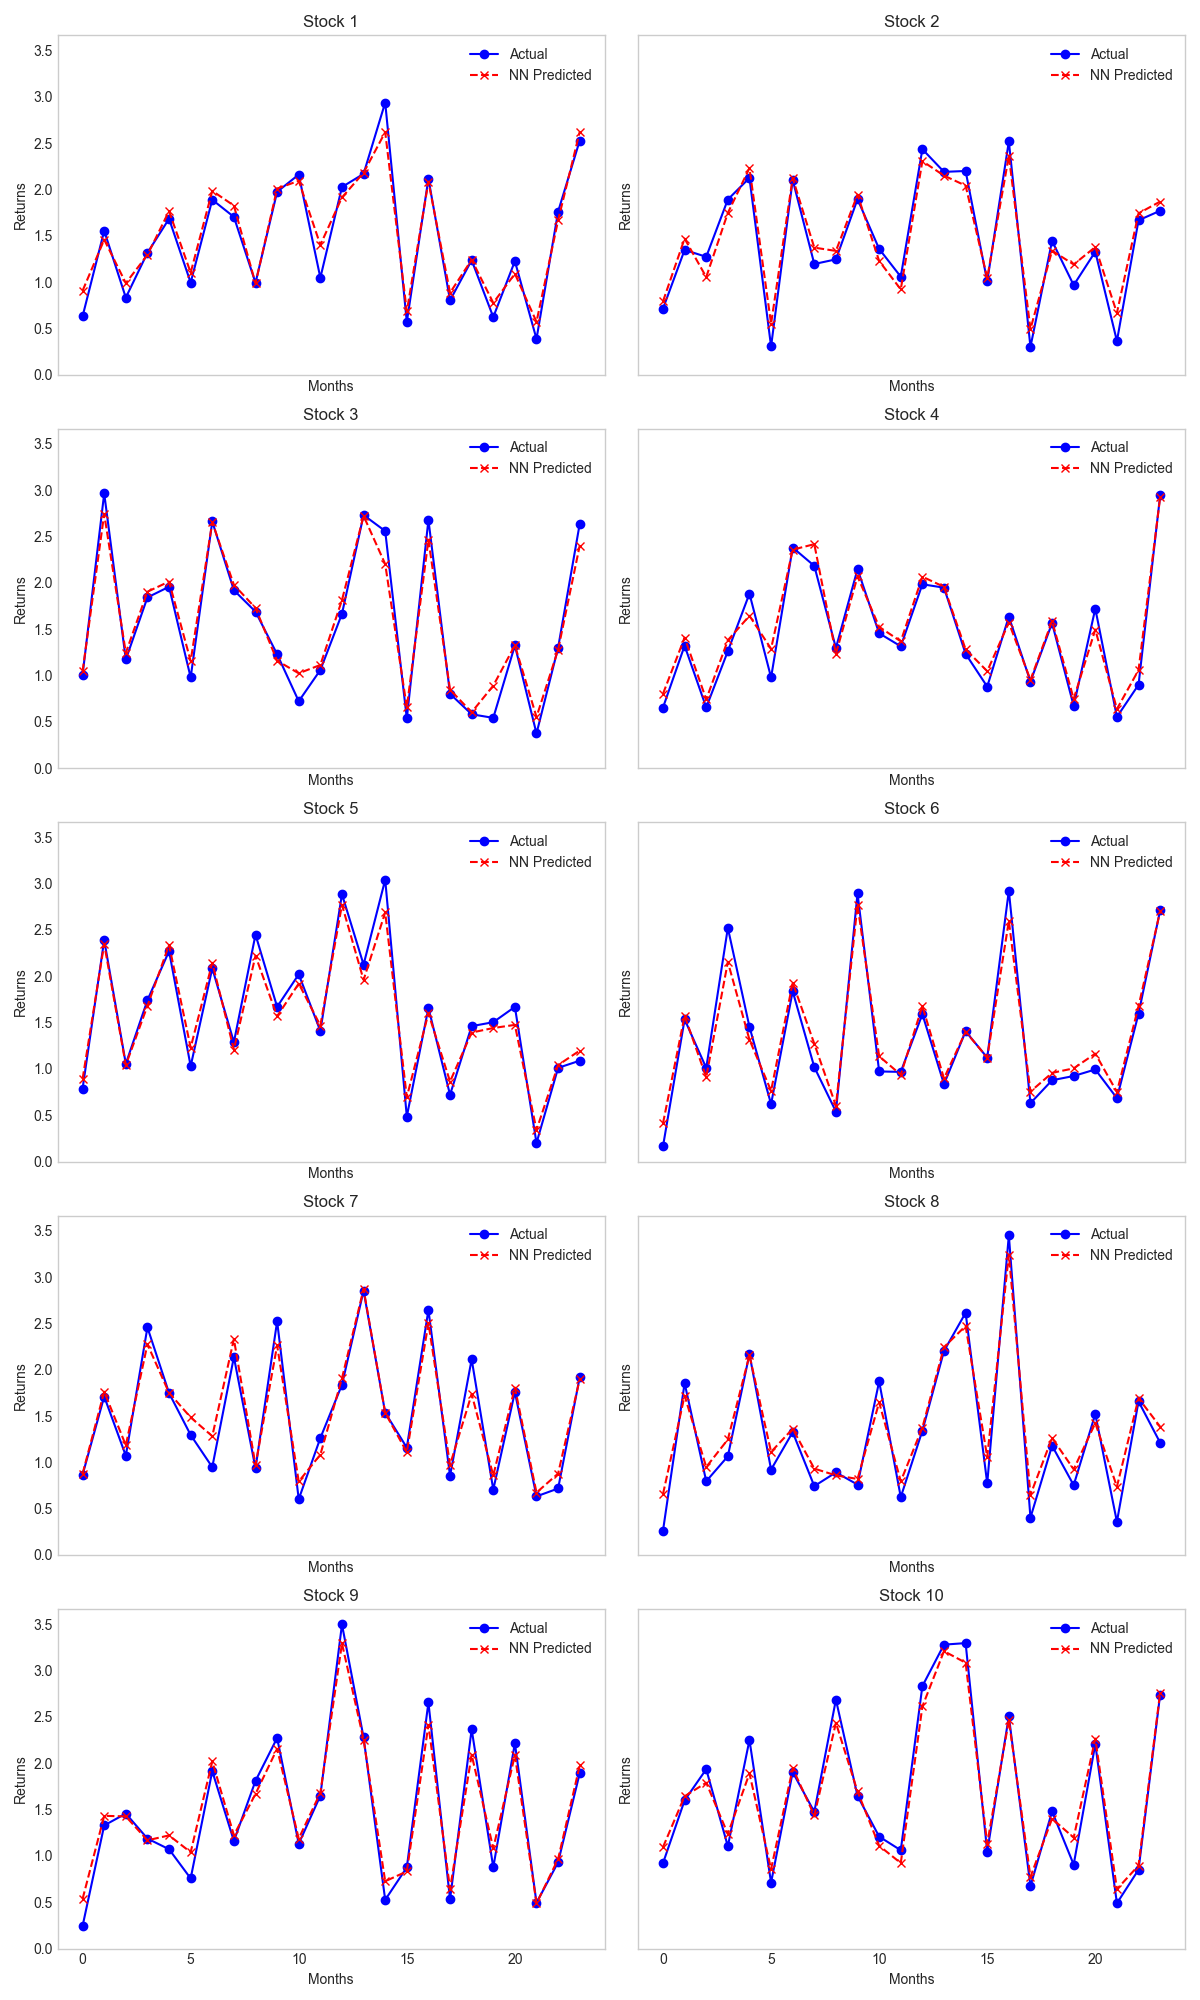
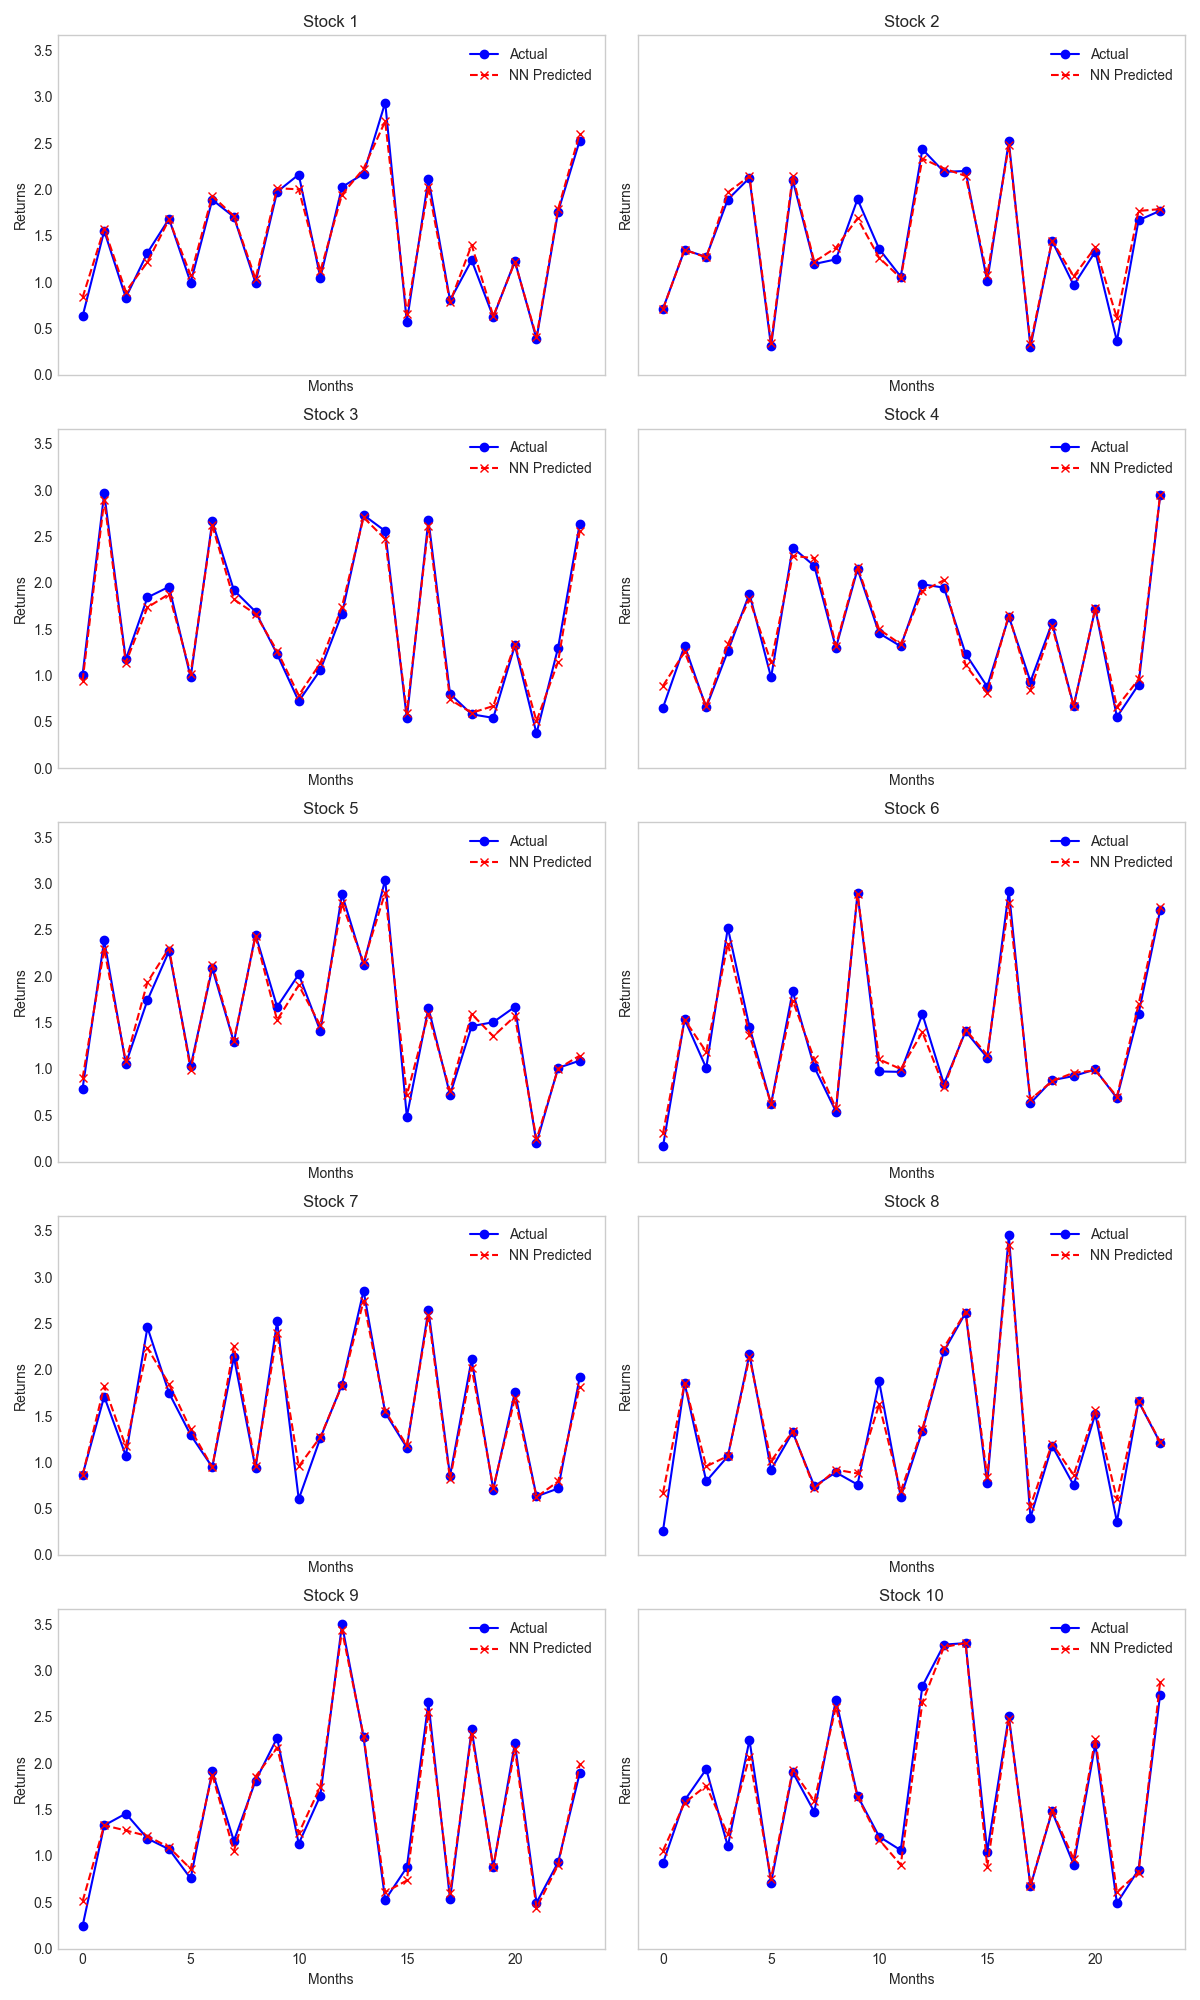
commit

diff --git a/ML_ProblemSet_Student.py b/ML_ProblemSet_Student.py
@@ -198,7 +198,7 @@ def plot_timeseries_per_model(Y_true, models):
     plt.savefig("images/TSPerModel.png")
     plt.close()
 
-#plot_timeseries_per_model(Y_test, prediction)
+plot_timeseries_per_model(Y_test, prediction)
 
 # -------------------------------
 # Part 6: Out-of-Sample R² Results Table - to evaluate model performance
